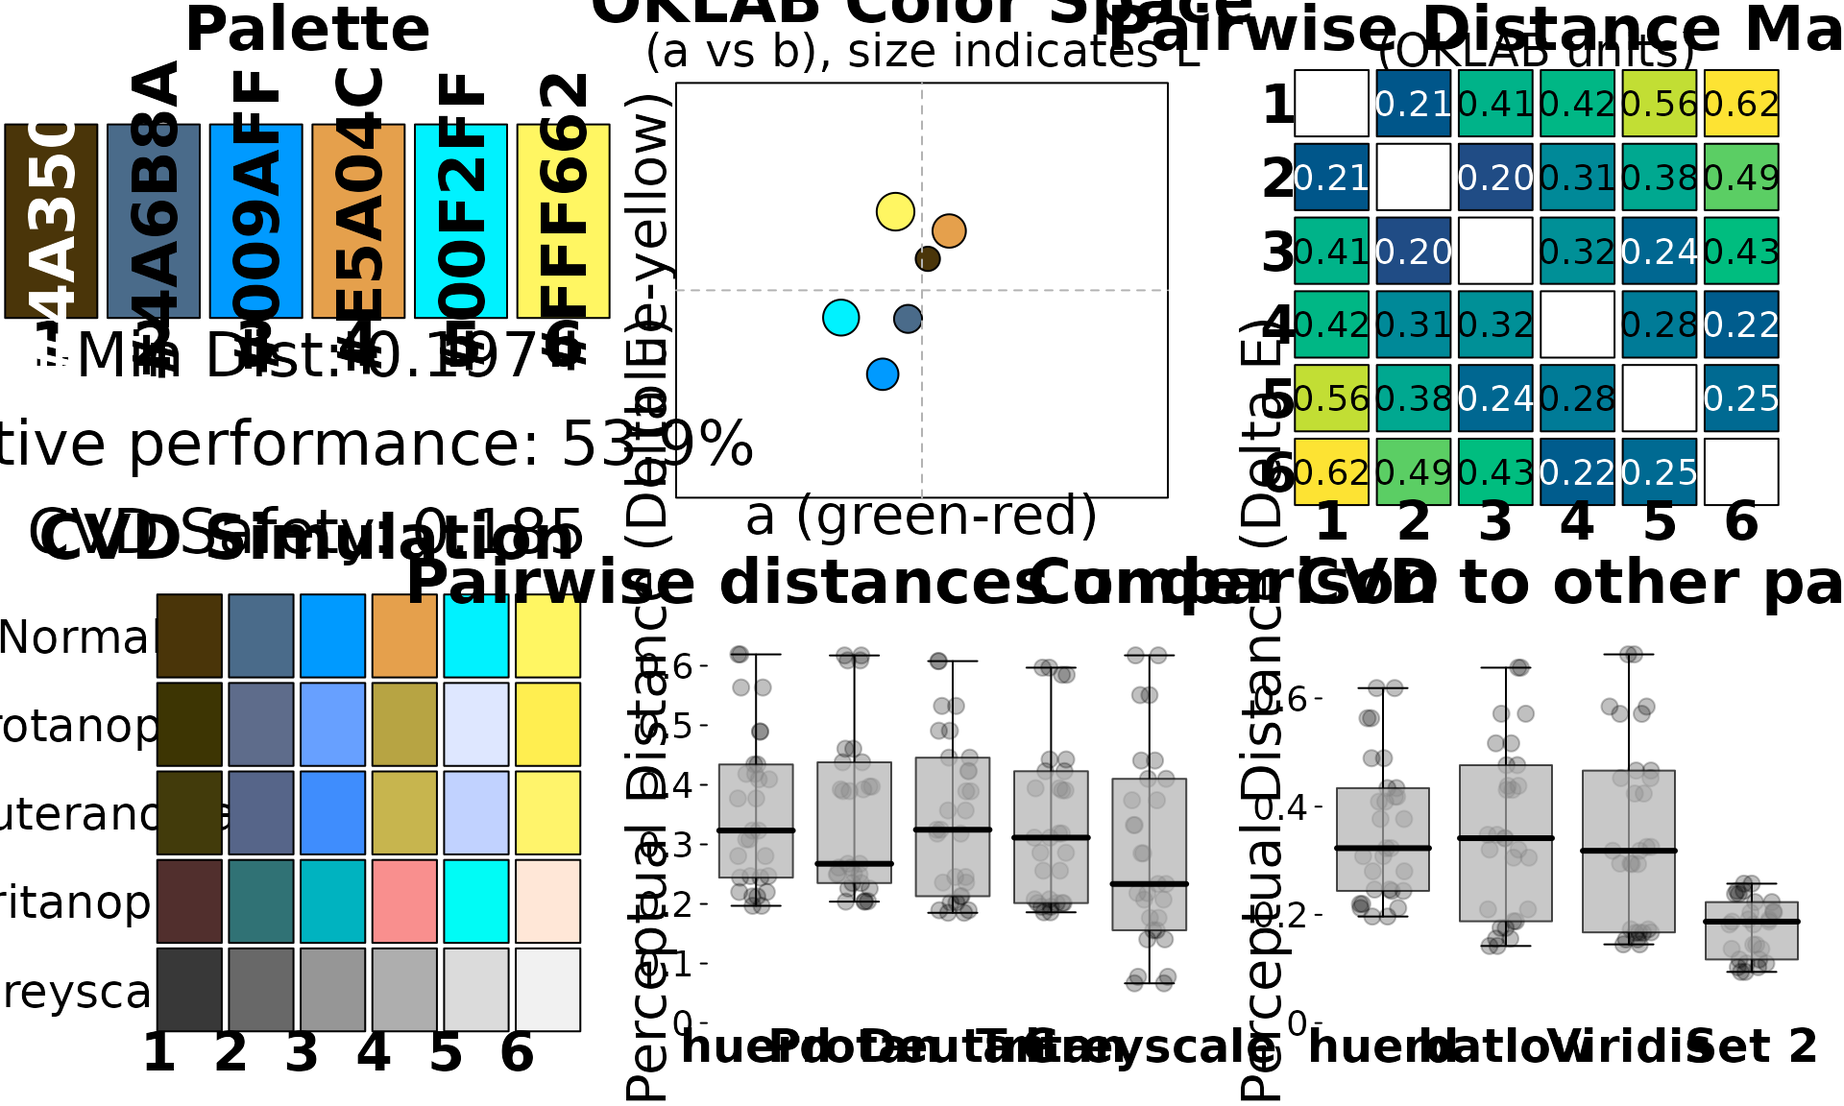
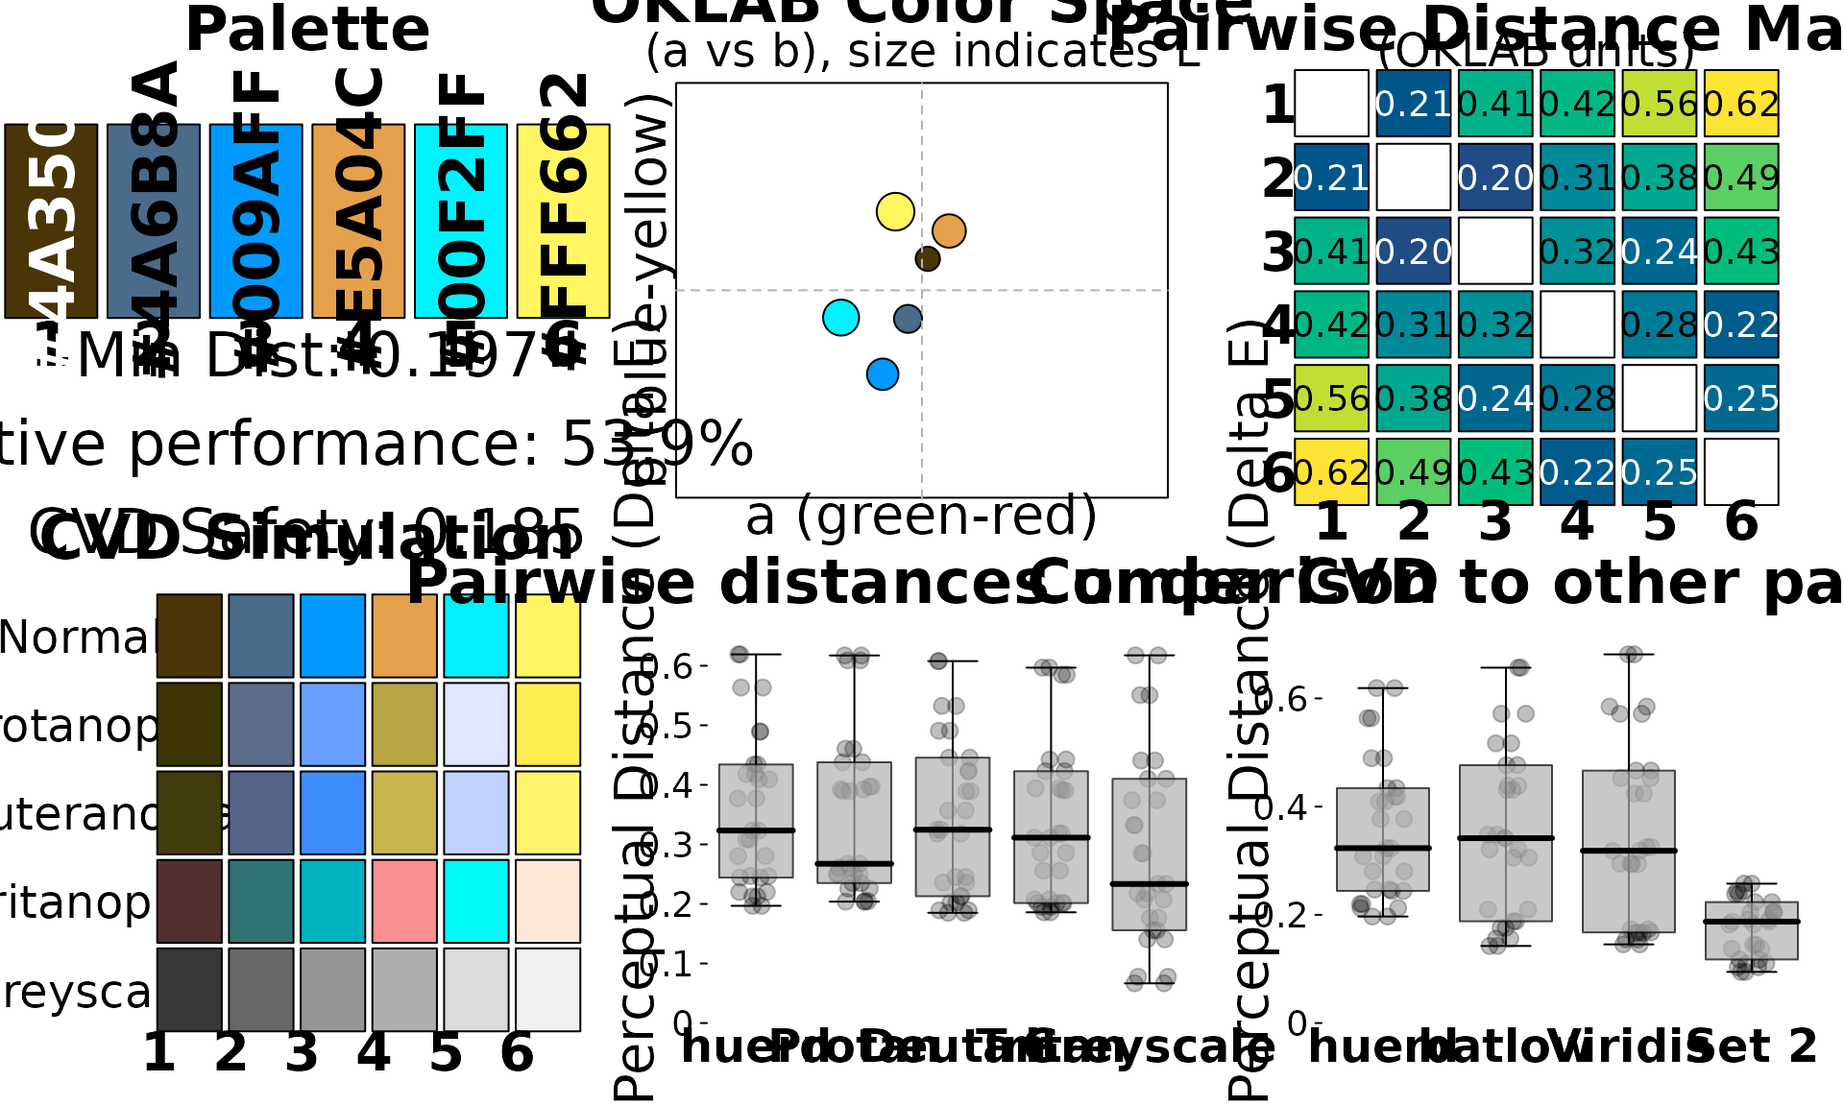
Deploying to gh-pages from @ sims1253/huerd@560180a32b1ce3b3e67ceeb88a9fb67cd0ee20a3 🚀

diff --git a/docs/branch/sims/dev/index.html b/docs/branch/sims/dev/index.html
@@ -87,22 +87,22 @@
 <span><span class="co">#&gt; </span></span>
 <span><span class="co">#&gt; -- huerd Color Palette (8 colors) --</span></span>
 <span><span class="co">#&gt; Colors:</span></span>
-<span><span class="co">#&gt; [ 1] #740000</span></span>
-<span><span class="co">#&gt; [ 2] #B60000</span></span>
-<span><span class="co">#&gt; [ 3] #0060FF</span></span>
+<span><span class="co">#&gt; [ 1] #6C0000</span></span>
+<span><span class="co">#&gt; [ 2] #007F77</span></span>
+<span><span class="co">#&gt; [ 3] #0084FF</span></span>
 <span><span class="co">#&gt; [ 4] #FF0000</span></span>
-<span><span class="co">#&gt; [ 5] #FF61A8</span></span>
-<span><span class="co">#&gt; [ 6] #00BFED</span></span>
-<span><span class="co">#&gt; [ 7] #FFA400</span></span>
-<span><span class="co">#&gt; [ 8] #4CF8A5</span></span>
+<span><span class="co">#&gt; [ 5] #E900FF</span></span>
+<span><span class="co">#&gt; [ 6] #9792B2</span></span>
+<span><span class="co">#&gt; [ 7] #00B1EA</span></span>
+<span><span class="co">#&gt; [ 8] #00DBFF</span></span>
 <span><span class="co">#&gt; </span></span>
 <span><span class="co">#&gt; -- Quality Metrics Summary --</span></span>
-<span><span class="co">#&gt; * Min. Perceptual Distance (OKLAB): 0.147</span></span>
-<span><span class="co">#&gt; * Optimizer Performance Ratio      : 47.6%</span></span>
-<span><span class="co">#&gt; * Min. CVD-Safe Distance (OKLAB)  : 0.105</span></span>
+<span><span class="co">#&gt; * Min. Perceptual Distance (OKLAB): 0.115</span></span>
+<span><span class="co">#&gt; * Optimizer Performance Ratio      : 37.0%</span></span>
+<span><span class="co">#&gt; * Min. CVD-Safe Distance (OKLAB)  : 0.066</span></span>
 <span><span class="co">#&gt; </span></span>
 <span><span class="co">#&gt; -- Generation Details --</span></span>
-<span><span class="co">#&gt; * Optimizer Iterations: 533</span></span>
+<span><span class="co">#&gt; * Optimizer Iterations: 487</span></span>
 <span><span class="co">#&gt; * Optimizer Status: NLOPT_XTOL_REACHED: Optimization stopped because xtol_rel or xtol_abs (above) was reached.</span></span></code></pre></div>
 </div>
 <div class="section level2">
@@ -121,22 +121,22 @@
 <span><span class="co">#&gt; </span></span>
 <span><span class="co">#&gt; -- huerd Color Palette (8 colors) --</span></span>
 <span><span class="co">#&gt; Colors:</span></span>
-<span><span class="co">#&gt; [ 1] #182C00</span></span>
-<span><span class="co">#&gt; [ 2] #520061</span></span>
-<span><span class="co">#&gt; [ 3] #47474D</span></span>
+<span><span class="co">#&gt; [ 1] #700000</span></span>
+<span><span class="co">#&gt; [ 2] #114661</span></span>
+<span><span class="co">#&gt; [ 3] #A73800</span></span>
 <span><span class="co">#&gt; [ 4] #4A6B8A</span></span>
-<span><span class="co">#&gt; [ 5] #6F9585</span></span>
-<span><span class="co">#&gt; [ 6] #E5A04C</span></span>
-<span><span class="co">#&gt; [ 7] #C6A7FE</span></span>
-<span><span class="co">#&gt; [ 8] #FFD6FF</span></span>
+<span><span class="co">#&gt; [ 5] #CE673B</span></span>
+<span><span class="co">#&gt; [ 6] #00AAAD</span></span>
+<span><span class="co">#&gt; [ 7] #E5A04C</span></span>
+<span><span class="co">#&gt; [ 8] #FFC7D8</span></span>
 <span><span class="co">#&gt; </span></span>
 <span><span class="co">#&gt; -- Quality Metrics Summary --</span></span>
-<span><span class="co">#&gt; * Min. Perceptual Distance (OKLAB): 0.128</span></span>
-<span><span class="co">#&gt; * Optimizer Performance Ratio      : 41.2%</span></span>
-<span><span class="co">#&gt; * Min. CVD-Safe Distance (OKLAB)  : 0.119</span></span>
+<span><span class="co">#&gt; * Min. Perceptual Distance (OKLAB): 0.132</span></span>
+<span><span class="co">#&gt; * Optimizer Performance Ratio      : 42.7%</span></span>
+<span><span class="co">#&gt; * Min. CVD-Safe Distance (OKLAB)  : 0.130</span></span>
 <span><span class="co">#&gt; </span></span>
 <span><span class="co">#&gt; -- Generation Details --</span></span>
-<span><span class="co">#&gt; * Optimizer Iterations: 492</span></span>
+<span><span class="co">#&gt; * Optimizer Iterations: 533</span></span>
 <span><span class="co">#&gt; * Optimizer Status: NLOPT_XTOL_REACHED: Optimization stopped because xtol_rel or xtol_abs (above) was reached.</span></span></code></pre></div>
 </div>
 <div class="section level2">
@@ -160,13 +160,13 @@
 <span><span class="va">neldermead_palette</span> <span class="op">&lt;-</span> <span class="fu"><a href="reference/generate_palette.html">generate_palette</a></span><span class="op">(</span><span class="fl">6</span>, optimizer <span class="op">=</span> <span class="st">"nlopt_neldermead"</span>, progress <span class="op">=</span> <span class="cn">FALSE</span><span class="op">)</span></span>
 <span></span>
 <span><span class="fu"><a href="https://rdrr.io/r/base/cat.html" class="external-link">cat</a></span><span class="op">(</span><span class="st">"COBYLA:"</span>, <span class="fu"><a href="https://rdrr.io/r/base/paste.html" class="external-link">paste</a></span><span class="op">(</span><span class="va">cobyla_palette</span>, collapse <span class="op">=</span> <span class="st">", "</span><span class="op">)</span>, <span class="st">"\n"</span><span class="op">)</span></span>
-<span><span class="co">#&gt; COBYLA: #4F0054, #0042AD, #FF0000, #FF28C5, #FF78FF, #FFE200</span></span>
+<span><span class="co">#&gt; COBYLA: #2600BA, #970000, #0000FF, #008A00, #FF0000, #BAA69E</span></span>
 <span><span class="fu"><a href="https://rdrr.io/r/base/cat.html" class="external-link">cat</a></span><span class="op">(</span><span class="st">"SANN:"</span>, <span class="fu"><a href="https://rdrr.io/r/base/paste.html" class="external-link">paste</a></span><span class="op">(</span><span class="va">sann_palette</span>, collapse <span class="op">=</span> <span class="st">", "</span><span class="op">)</span>, <span class="st">"\n"</span><span class="op">)</span></span>
-<span><span class="co">#&gt; SANN: #240030, #004762, #8200B8, #FF57FF, #00D800, #00F3FF</span></span>
+<span><span class="co">#&gt; SANN: #300000, #6E0000, #0000D7, #00A100, #CE74FF, #00FFFF</span></span>
 <span><span class="fu"><a href="https://rdrr.io/r/base/cat.html" class="external-link">cat</a></span><span class="op">(</span><span class="st">"DIRECT:"</span>, <span class="fu"><a href="https://rdrr.io/r/base/paste.html" class="external-link">paste</a></span><span class="op">(</span><span class="va">direct_palette</span>, collapse <span class="op">=</span> <span class="st">", "</span><span class="op">)</span>, <span class="st">"\n"</span><span class="op">)</span></span>
 <span><span class="co">#&gt; DIRECT: #636363, #636363, #636363, #636363, #636363, #636363</span></span>
 <span><span class="fu"><a href="https://rdrr.io/r/base/cat.html" class="external-link">cat</a></span><span class="op">(</span><span class="st">"Nelder-Mead:"</span>, <span class="fu"><a href="https://rdrr.io/r/base/paste.html" class="external-link">paste</a></span><span class="op">(</span><span class="va">neldermead_palette</span>, collapse <span class="op">=</span> <span class="st">", "</span><span class="op">)</span>, <span class="st">"\n"</span><span class="op">)</span></span>
-<span><span class="co">#&gt; Nelder-Mead: #85008F, #BC00FF, #FF0091, #D3AC53, #9FB0FF, #00FFFF</span></span></code></pre></div>
+<span><span class="co">#&gt; Nelder-Mead: #9D0000, #FF0000, #FF77C5, #A7C100, #FFB8A2, #00FBFF</span></span></code></pre></div>
 </div>
 <div class="section level2">
 <h2 id="multi-objective-framework">Multi-Objective Framework<a class="anchor" aria-label="anchor" href="#multi-objective-framework"></a>
@@ -191,20 +191,20 @@
 <span><span class="co">#&gt; </span></span>
 <span><span class="co">#&gt; -- huerd Color Palette (6 colors) --</span></span>
 <span><span class="co">#&gt; Colors:</span></span>
-<span><span class="co">#&gt; [ 1] #000099</span></span>
-<span><span class="co">#&gt; [ 2] #006000</span></span>
-<span><span class="co">#&gt; [ 3] #9504F2</span></span>
-<span><span class="co">#&gt; [ 4] #FF5000</span></span>
-<span><span class="co">#&gt; [ 5] #FEA400</span></span>
-<span><span class="co">#&gt; [ 6] #BFFF00</span></span>
+<span><span class="co">#&gt; [ 1] #001E00</span></span>
+<span><span class="co">#&gt; [ 2] #A50000</span></span>
+<span><span class="co">#&gt; [ 3] #FF0000</span></span>
+<span><span class="co">#&gt; [ 4] #00A5FF</span></span>
+<span><span class="co">#&gt; [ 5] #00FFFF</span></span>
+<span><span class="co">#&gt; [ 6] #FFF300</span></span>
 <span><span class="co">#&gt; </span></span>
 <span><span class="co">#&gt; -- Quality Metrics Summary --</span></span>
-<span><span class="co">#&gt; * Min. Perceptual Distance (OKLAB): 0.170</span></span>
-<span><span class="co">#&gt; * Optimizer Performance Ratio      : 46.5%</span></span>
-<span><span class="co">#&gt; * Min. CVD-Safe Distance (OKLAB)  : 0.112</span></span>
+<span><span class="co">#&gt; * Min. Perceptual Distance (OKLAB): 0.189</span></span>
+<span><span class="co">#&gt; * Optimizer Performance Ratio      : 51.6%</span></span>
+<span><span class="co">#&gt; * Min. CVD-Safe Distance (OKLAB)  : 0.136</span></span>
 <span><span class="co">#&gt; </span></span>
 <span><span class="co">#&gt; -- Generation Details --</span></span>
-<span><span class="co">#&gt; * Optimizer Iterations: 689</span></span>
+<span><span class="co">#&gt; * Optimizer Iterations: 329</span></span>
 <span><span class="co">#&gt; * Optimizer Status: NLOPT_XTOL_REACHED: Optimization stopped because xtol_rel or xtol_abs (above) was reached.</span></span></code></pre></div>
 </div>
 <div class="section level2">
@@ -230,11 +230,11 @@
 <span></span>
 <span><span class="co"># Access raw metrics (no subjective scoring)</span></span>
 <span><span class="fu"><a href="https://rdrr.io/r/base/cat.html" class="external-link">cat</a></span><span class="op">(</span><span class="st">"Minimum distance:"</span>, <span class="va">evaluation</span><span class="op">$</span><span class="va">distances</span><span class="op">$</span><span class="va">min</span>, <span class="st">"\n"</span><span class="op">)</span></span>
-<span><span class="co">#&gt; Minimum distance: 0.1570204</span></span>
+<span><span class="co">#&gt; Minimum distance: 0.2073131</span></span>
 <span><span class="fu"><a href="https://rdrr.io/r/base/cat.html" class="external-link">cat</a></span><span class="op">(</span><span class="st">"Performance ratio:"</span>, <span class="va">evaluation</span><span class="op">$</span><span class="va">distances</span><span class="op">$</span><span class="va">performance_ratio</span> <span class="op">*</span> <span class="fl">100</span>, <span class="st">"%\n"</span><span class="op">)</span></span>
-<span><span class="co">#&gt; Performance ratio: 50.6741 %</span></span>
+<span><span class="co">#&gt; Performance ratio: 66.9047 %</span></span>
 <span><span class="fu"><a href="https://rdrr.io/r/base/cat.html" class="external-link">cat</a></span><span class="op">(</span><span class="st">"CVD worst case:"</span>, <span class="va">evaluation</span><span class="op">$</span><span class="va">cvd_safety</span><span class="op">$</span><span class="va">worst_case_min_distance</span>, <span class="st">"\n"</span><span class="op">)</span></span>
-<span><span class="co">#&gt; CVD worst case: 0.1019718</span></span></code></pre></div>
+<span><span class="co">#&gt; CVD worst case: 0.08815642</span></span></code></pre></div>
 </div>
 <div class="section level2">
 <h2 id="custom-parameters">Custom Parameters<a class="anchor" aria-label="anchor" href="#custom-parameters"></a>
@@ -255,22 +255,22 @@
 <span><span class="co">#&gt; </span></span>
 <span><span class="co">#&gt; -- huerd Color Palette (8 colors) --</span></span>
 <span><span class="co">#&gt; Colors:</span></span>
-<span><span class="co">#&gt; [ 1] #9F50AB</span></span>
-<span><span class="co">#&gt; [ 2] #C37136</span></span>
-<span><span class="co">#&gt; [ 3] #9688A8</span></span>
-<span><span class="co">#&gt; [ 4] #6DB37D</span></span>
-<span><span class="co">#&gt; [ 5] #00CCE8</span></span>
-<span><span class="co">#&gt; [ 6] #BDBF45</span></span>
-<span><span class="co">#&gt; [ 7] #FF94BA</span></span>
-<span><span class="co">#&gt; [ 8] #A3FFFD</span></span>
+<span><span class="co">#&gt; [ 1] #CE4572</span></span>
+<span><span class="co">#&gt; [ 2] #00AC8F</span></span>
+<span><span class="co">#&gt; [ 3] #00BACF</span></span>
+<span><span class="co">#&gt; [ 4] #A6AF5F</span></span>
+<span><span class="co">#&gt; [ 5] #B9AFFC</span></span>
+<span><span class="co">#&gt; [ 6] #D0BE8F</span></span>
+<span><span class="co">#&gt; [ 7] #FFB9E7</span></span>
+<span><span class="co">#&gt; [ 8] #67FFA4</span></span>
 <span><span class="co">#&gt; </span></span>
 <span><span class="co">#&gt; -- Quality Metrics Summary --</span></span>
-<span><span class="co">#&gt; * Min. Perceptual Distance (OKLAB): 0.118</span></span>
-<span><span class="co">#&gt; * Optimizer Performance Ratio      : 38.1%</span></span>
-<span><span class="co">#&gt; * Min. CVD-Safe Distance (OKLAB)  : 0.091</span></span>
+<span><span class="co">#&gt; * Min. Perceptual Distance (OKLAB): 0.093</span></span>
+<span><span class="co">#&gt; * Optimizer Performance Ratio      : 29.9%</span></span>
+<span><span class="co">#&gt; * Min. CVD-Safe Distance (OKLAB)  : 0.065</span></span>
 <span><span class="co">#&gt; </span></span>
 <span><span class="co">#&gt; -- Generation Details --</span></span>
-<span><span class="co">#&gt; * Optimizer Iterations: 621</span></span>
+<span><span class="co">#&gt; * Optimizer Iterations: 573</span></span>
 <span><span class="co">#&gt; * Optimizer Status: NLOPT_XTOL_REACHED: Optimization stopped because xtol_rel or xtol_abs (above) was reached.</span></span></code></pre></div>
 </div>
 <div class="section level2">
@@ -306,9 +306,9 @@
 <span><span class="co"># 3. Quality evaluation</span></span>
 <span><span class="va">evaluation</span> <span class="op">&lt;-</span> <span class="fu"><a href="reference/evaluate_palette.html">evaluate_palette</a></span><span class="op">(</span><span class="va">brand_palette</span><span class="op">)</span></span>
 <span><span class="fu"><a href="https://rdrr.io/r/base/cat.html" class="external-link">cat</a></span><span class="op">(</span><span class="st">"Min distance:"</span>, <span class="fu"><a href="https://rdrr.io/r/base/Round.html" class="external-link">round</a></span><span class="op">(</span><span class="va">evaluation</span><span class="op">$</span><span class="va">distances</span><span class="op">$</span><span class="va">min</span>, <span class="fl">3</span><span class="op">)</span>, <span class="st">"\n"</span><span class="op">)</span></span>
-<span><span class="co">#&gt; Min distance: 0.136</span></span>
+<span><span class="co">#&gt; Min distance: 0.18</span></span>
 <span><span class="fu"><a href="https://rdrr.io/r/base/cat.html" class="external-link">cat</a></span><span class="op">(</span><span class="st">"Performance:"</span>, <span class="fu"><a href="https://rdrr.io/r/base/Round.html" class="external-link">round</a></span><span class="op">(</span><span class="va">evaluation</span><span class="op">$</span><span class="va">distances</span><span class="op">$</span><span class="va">performance_ratio</span> <span class="op">*</span> <span class="fl">100</span>, <span class="fl">1</span><span class="op">)</span>, <span class="st">"%\n"</span><span class="op">)</span></span>
-<span><span class="co">#&gt; Performance: 43.8 %</span></span>
+<span><span class="co">#&gt; Performance: 57.9 %</span></span>
 <span></span>
 <span><span class="co"># 4. CVD accessibility check</span></span>
 <span><span class="va">cvd_safe</span> <span class="op">&lt;-</span> <span class="fu"><a href="reference/is_cvd_safe.html">is_cvd_safe</a></span><span class="op">(</span><span class="va">brand_palette</span><span class="op">)</span></span>
@@ -325,60 +325,60 @@
 <span><span class="co">#&gt; </span></span>
 <span><span class="co">#&gt; -- huerd CVD Simulation Result (Multiple Types, Severity: 1.00) --</span></span>
 <span><span class="co">#&gt; Palette for: original</span></span>
-<span><span class="co">#&gt;   [ 1] #000500</span></span>
-<span><span class="co">#&gt;   [ 2] #1A0054</span></span>
-<span><span class="co">#&gt;   [ 3] #1F77B4</span></span>
-<span><span class="co">#&gt;   [ 4] #FF0000</span></span>
-<span><span class="co">#&gt;   [ 5] #009AFF</span></span>
+<span><span class="co">#&gt;   [ 1] #450000</span></span>
+<span><span class="co">#&gt;   [ 2] #005800</span></span>
+<span><span class="co">#&gt;   [ 3] #3100DD</span></span>
+<span><span class="co">#&gt;   [ 4] #1F77B4</span></span>
+<span><span class="co">#&gt;   [ 5] #FF0055</span></span>
 <span><span class="co">#&gt;   [ 6] #FF7F0E</span></span>
-<span><span class="co">#&gt;   [ 7] #00E2FF</span></span>
-<span><span class="co">#&gt;   [ 8] #B4FD9E</span></span>
+<span><span class="co">#&gt;   [ 7] #F5B7FF</span></span>
+<span><span class="co">#&gt;   [ 8] #45FF00</span></span>
 <span><span class="co">#&gt; Palette for: protan</span></span>
-<span><span class="co">#&gt;   [ 1] #050400</span></span>
-<span><span class="co">#&gt;   [ 2] #001956</span></span>
-<span><span class="co">#&gt;   [ 3] #5A79B7</span></span>
-<span><span class="co">#&gt;   [ 4] #6D5F00</span></span>
-<span><span class="co">#&gt;   [ 5] #67A0FF</span></span>
+<span><span class="co">#&gt;   [ 1] #181400</span></span>
+<span><span class="co">#&gt;   [ 2] #5A4E00</span></span>
+<span><span class="co">#&gt;   [ 3] #004EE2</span></span>
+<span><span class="co">#&gt;   [ 4] #5A79B7</span></span>
+<span><span class="co">#&gt;   [ 5] #666355</span></span>
 <span><span class="co">#&gt;   [ 6] #A59100</span></span>
-<span><span class="co">#&gt;   [ 7] #CBD9FF</span></span>
-<span><span class="co">#&gt;   [ 8] #FFEE97</span></span>
+<span><span class="co">#&gt;   [ 7] #B0C8FF</span></span>
+<span><span class="co">#&gt;   [ 8] #FFE600</span></span>
 <span><span class="co">#&gt; Palette for: deutan</span></span>
-<span><span class="co">#&gt;   [ 1] #040300</span></span>
-<span><span class="co">#&gt;   [ 2] #001453</span></span>
-<span><span class="co">#&gt;   [ 3] #456CB3</span></span>
-<span><span class="co">#&gt;   [ 4] #A39000</span></span>
-<span><span class="co">#&gt;   [ 5] #3F8DFD</span></span>
+<span><span class="co">#&gt;   [ 1] #292300</span></span>
+<span><span class="co">#&gt;   [ 2] #52480D</span></span>
+<span><span class="co">#&gt;   [ 3] #003ADA</span></span>
+<span><span class="co">#&gt;   [ 4] #456CB3</span></span>
+<span><span class="co">#&gt;   [ 5] #9F914E</span></span>
 <span><span class="co">#&gt;   [ 6] #C4AE05</span></span>
-<span><span class="co">#&gt;   [ 7] #AFC5FF</span></span>
-<span><span class="co">#&gt;   [ 8] #F8E8A3</span></span>
+<span><span class="co">#&gt;   [ 7] #BECFFD</span></span>
+<span><span class="co">#&gt;   [ 8] #F1D83A</span></span>
 <span><span class="co">#&gt; Palette for: tritan</span></span>
-<span><span class="co">#&gt;   [ 1] #000503</span></span>
-<span><span class="co">#&gt;   [ 2] #001D2E</span></span>
-<span><span class="co">#&gt;   [ 3] #00868D</span></span>
-<span><span class="co">#&gt;   [ 4] #FF000F</span></span>
-<span><span class="co">#&gt;   [ 5] #00B3C0</span></span>
+<span><span class="co">#&gt;   [ 1] #4D0001</span></span>
+<span><span class="co">#&gt;   [ 2] #005549</span></span>
+<span><span class="co">#&gt;   [ 3] #005B81</span></span>
+<span><span class="co">#&gt;   [ 4] #00868D</span></span>
+<span><span class="co">#&gt;   [ 5] #FF0032</span></span>
 <span><span class="co">#&gt;   [ 6] #FF616D</span></span>
-<span><span class="co">#&gt;   [ 7] #00EEEB</span></span>
-<span><span class="co">#&gt;   [ 8] #B0F7E5</span></span>
+<span><span class="co">#&gt;   [ 7] #F7BED1</span></span>
+<span><span class="co">#&gt;   [ 8] #00F7D9</span></span>
 <span></span>
 <span><span class="co"># 6. Display final palette (colors are brightness-sorted)</span></span>
 <span><span class="fu"><a href="https://rdrr.io/r/base/print.html" class="external-link">print</a></span><span class="op">(</span><span class="va">brand_palette</span><span class="op">)</span></span>
 <span><span class="co">#&gt; </span></span>
 <span><span class="co">#&gt; -- huerd Color Palette (8 colors) --</span></span>
 <span><span class="co">#&gt; Colors:</span></span>
-<span><span class="co">#&gt; [ 1] #000500</span></span>
-<span><span class="co">#&gt; [ 2] #1A0054</span></span>
-<span><span class="co">#&gt; [ 3] #1F77B4</span></span>
-<span><span class="co">#&gt; [ 4] #FF0000</span></span>
-<span><span class="co">#&gt; [ 5] #009AFF</span></span>
+<span><span class="co">#&gt; [ 1] #450000</span></span>
+<span><span class="co">#&gt; [ 2] #005800</span></span>
+<span><span class="co">#&gt; [ 3] #3100DD</span></span>
+<span><span class="co">#&gt; [ 4] #1F77B4</span></span>
+<span><span class="co">#&gt; [ 5] #FF0055</span></span>
 <span><span class="co">#&gt; [ 6] #FF7F0E</span></span>
-<span><span class="co">#&gt; [ 7] #00E2FF</span></span>
-<span><span class="co">#&gt; [ 8] #B4FD9E</span></span>
+<span><span class="co">#&gt; [ 7] #F5B7FF</span></span>
+<span><span class="co">#&gt; [ 8] #45FF00</span></span>
 <span><span class="co">#&gt; </span></span>
 <span><span class="co">#&gt; -- Quality Metrics Summary --</span></span>
-<span><span class="co">#&gt; * Min. Perceptual Distance (OKLAB): 0.136</span></span>
-<span><span class="co">#&gt; * Optimizer Performance Ratio      : 43.8%</span></span>
-<span><span class="co">#&gt; * Min. CVD-Safe Distance (OKLAB)  : 0.098</span></span>
+<span><span class="co">#&gt; * Min. Perceptual Distance (OKLAB): 0.180</span></span>
+<span><span class="co">#&gt; * Optimizer Performance Ratio      : 57.9%</span></span>
+<span><span class="co">#&gt; * Min. CVD-Safe Distance (OKLAB)  : 0.093</span></span>
 <span><span class="co">#&gt; </span></span>
 <span><span class="co">#&gt; -- Generation Details --</span></span>
 <span><span class="co">#&gt; * Optimizer Iterations: 5000</span></span>
